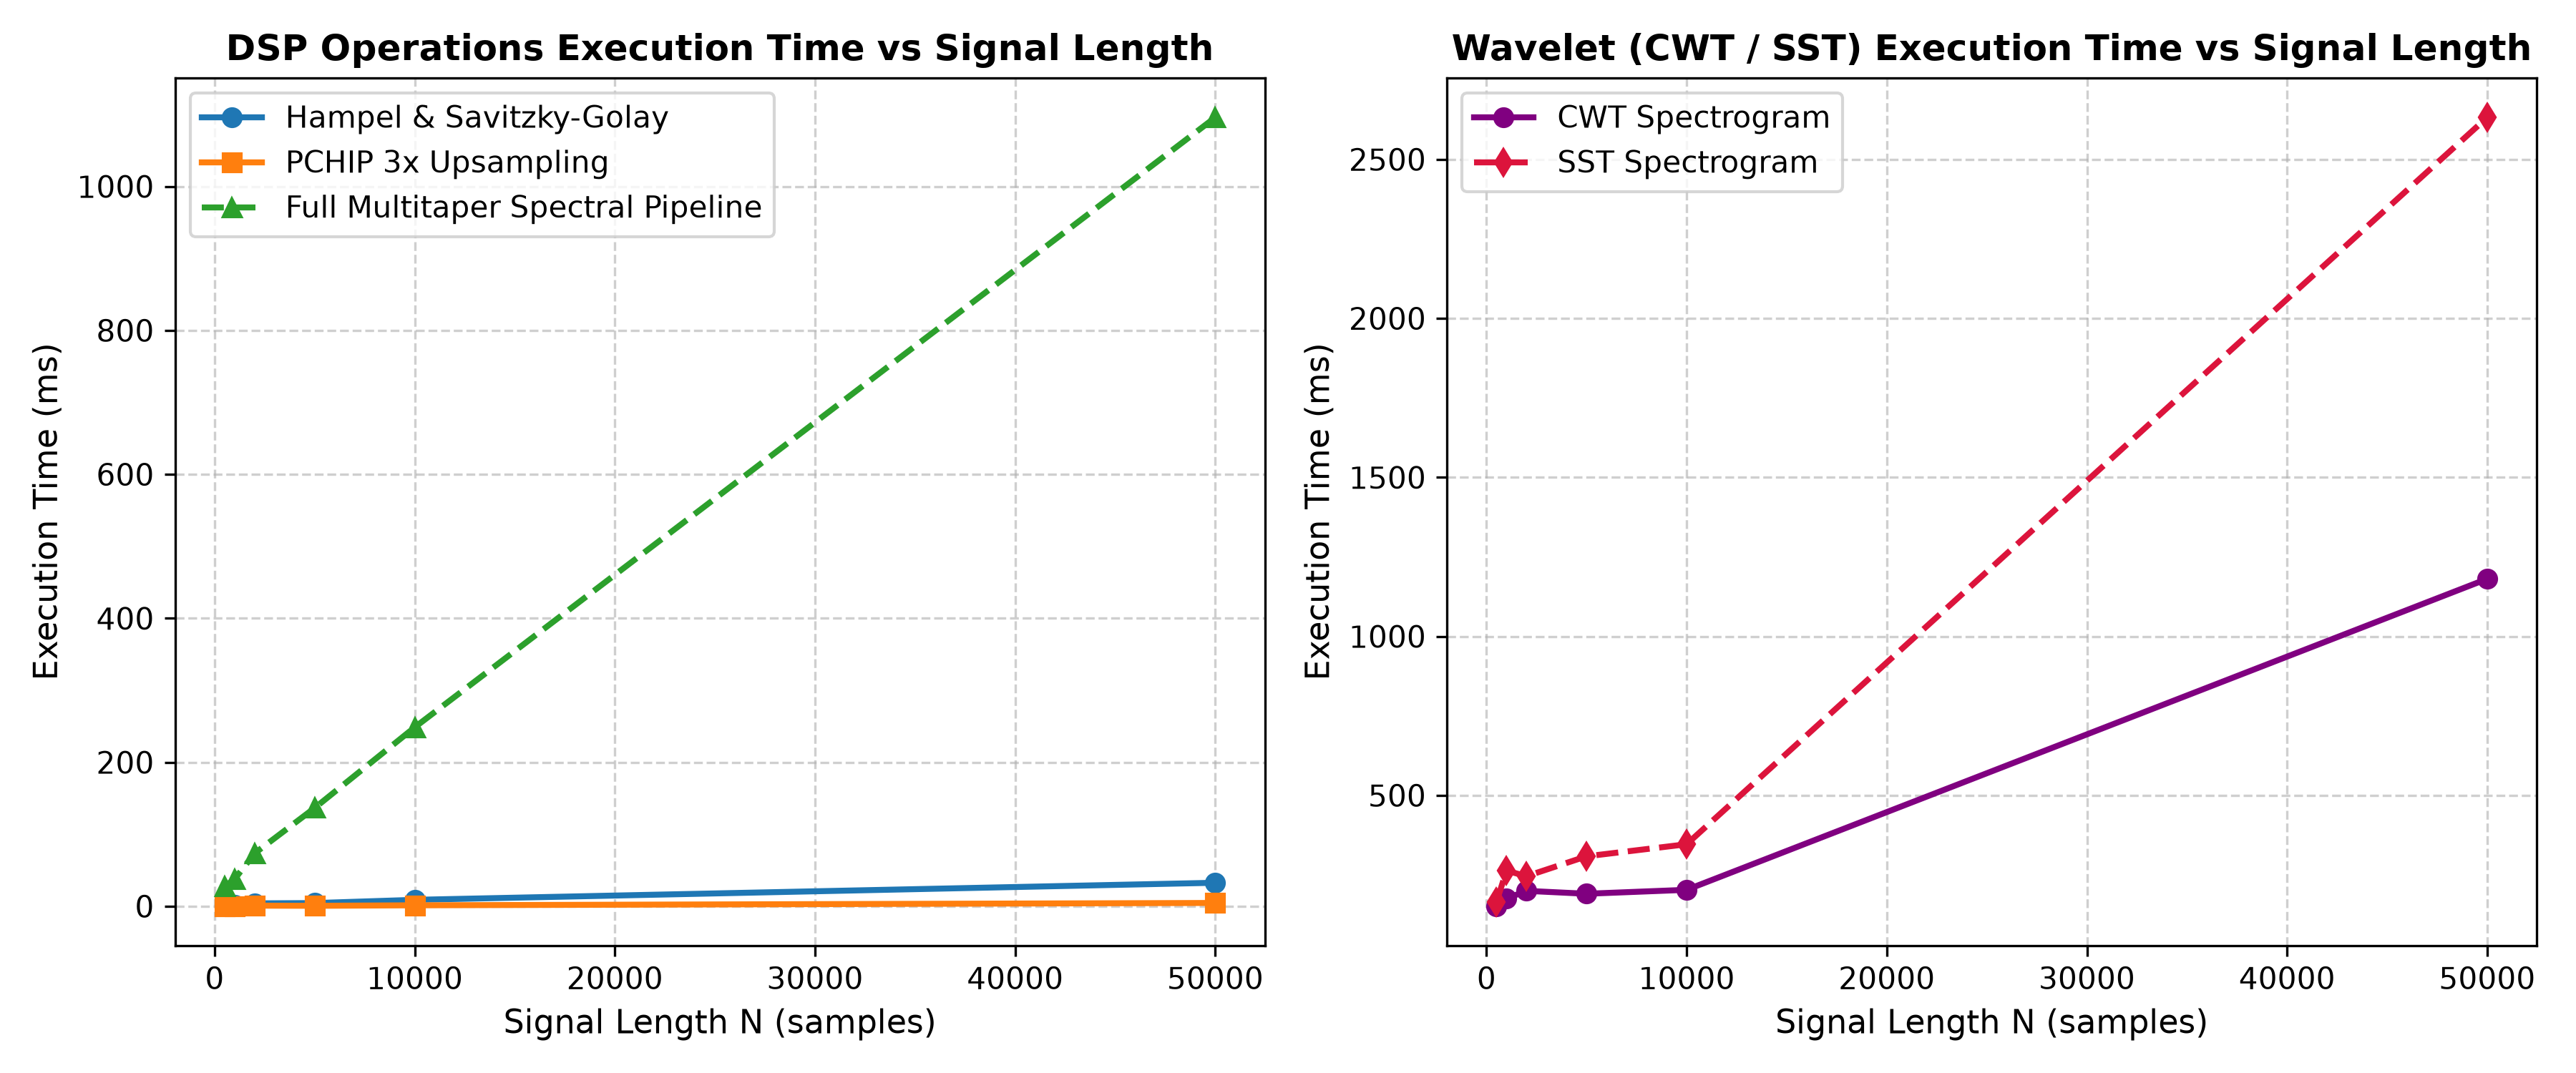
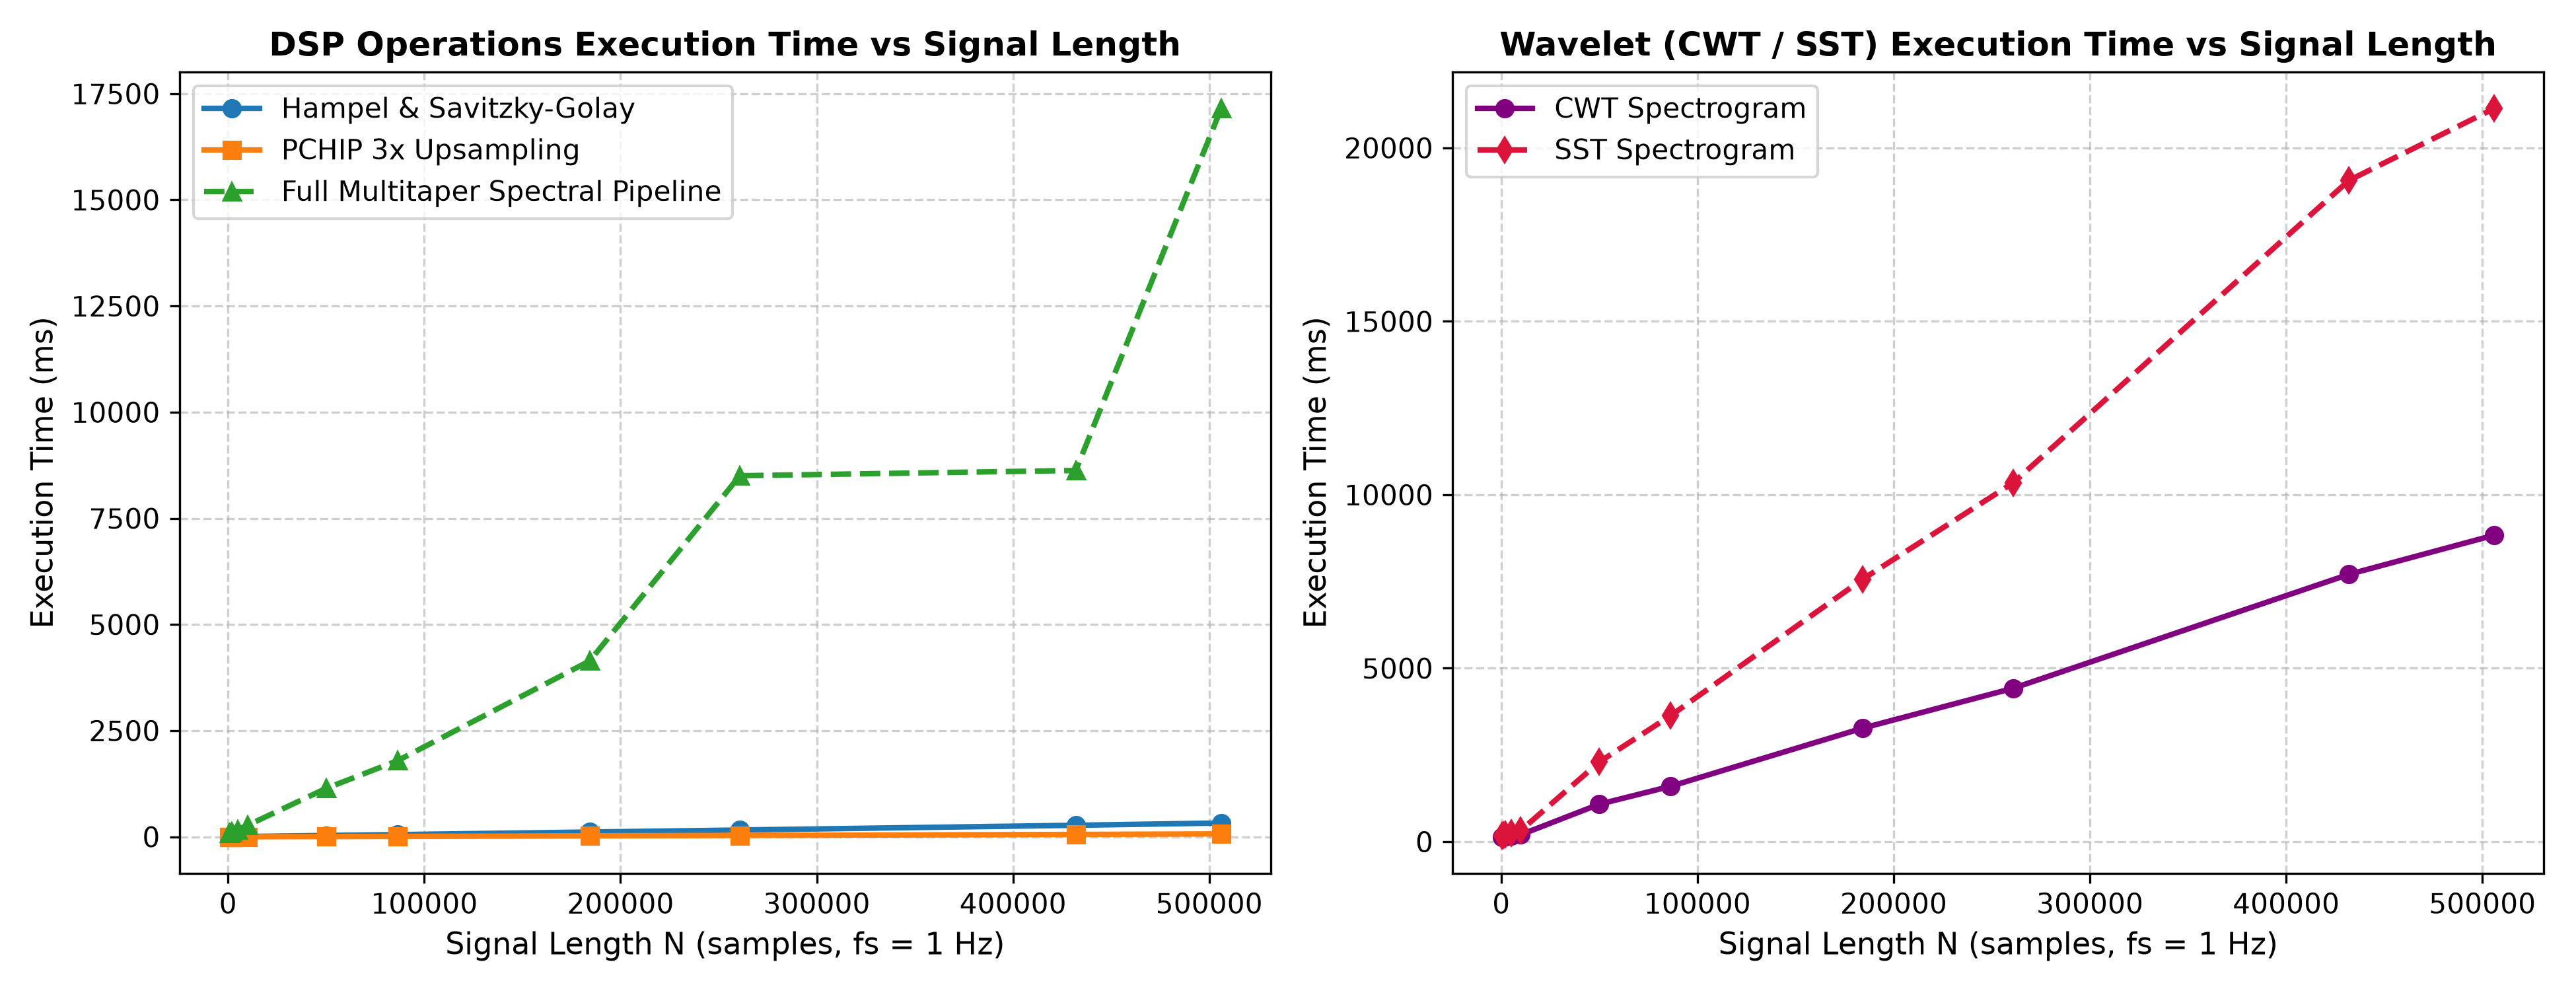
docs: add peak RAM scaling figure and refine benchmark methodology
- Add Peak RAM vs. Signal Length scaling plot (docs/assets/benchmark_memory_scaling.png)
- Document tracemalloc profiling methodology and clarify Python heap vs. GUI RSS metrics
- Detail bounded memory ceiling via 32,768-sample sliding sub-chunking in compute_cwt_spectrogram
- Soften scaling claims to empirical language ("approximately linear scaling")
- Update scripts/benchmark_scaling.py to profile peak heap RAM and generate both scaling figures

diff --git a/scripts/benchmark_scaling.py b/scripts/benchmark_scaling.py
@@ -1,8 +1,9 @@
+import os
 import sys
 
 sys.path.insert(0, ".")
-import os
 import time
+import tracemalloc
 
 import matplotlib.pyplot as plt
 
@@ -17,38 +18,43 @@ def run_benchmarks():
     # ---------------------------------------------------------
     # Warmup Phase: Trigger JIT compilation & Numba / SciPy caching
     # ---------------------------------------------------------
-    print("Warming up JIT compilers and cache...")
+    print("Warming up JIT compilers, PyFFTW wisdom, and SciPy cache...")
     warmup_sig1, warmup_sig2 = generate_synthetic_scintillation(length=500, fs=fs, seed=0)
-    _ = clean_and_smooth_signal(warmup_sig1, window_size=15, n_sigmas=3.0, apply_smoothing=True)
-    _ = upsample_pchip(warmup_sig1, fs=fs, factor=3)
-    _ = run_spectral_pipeline(
-        pm_signals={
-            "20 MHz Pol A": warmup_sig1,
-            "25 MHz Pol A": warmup_sig2,
-            "20 MHz Pol B": warmup_sig1,
-            "25 MHz Pol B": warmup_sig2,
-        },
-        fs=fs,
-        lowcut=0.01,
-        highcut=0.1,
-        window_size=15,
-        n_sigmas=3.0,
-        apply_smoothing=True,
-    )
-    _ = compute_cwt_spectrogram(warmup_sig1, fs=fs, lowcut=1.0 / 150.0, highcut=0.2, use_ssq=False)
-    _ = compute_cwt_spectrogram(warmup_sig1, fs=fs, lowcut=1.0 / 150.0, highcut=0.2, use_ssq=True)
+    for _ in range(2):
+        _ = clean_and_smooth_signal(warmup_sig1, window_size=15, n_sigmas=3.0, apply_smoothing=True)
+        _ = upsample_pchip(warmup_sig1, fs=fs, factor=3)
+        _ = run_spectral_pipeline(
+            pm_signals={
+                "20 MHz Pol A": warmup_sig1,
+                "25 MHz Pol A": warmup_sig2,
+                "20 MHz Pol B": warmup_sig1,
+                "25 MHz Pol B": warmup_sig2,
+            },
+            fs=fs,
+            lowcut=0.01,
+            highcut=0.1,
+            window_size=15,
+            n_sigmas=3.0,
+            apply_smoothing=True,
+        )
+        _ = compute_cwt_spectrogram(warmup_sig1, fs=fs, lowcut=1.0 / 150.0, highcut=0.2, use_ssq=False)
+        _ = compute_cwt_spectrogram(warmup_sig1, fs=fs, lowcut=1.0 / 150.0, highcut=0.2, use_ssq=True)
     print("Warmup complete.\n")
 
     # ---------------------------------------------------------
-    # Benchmarking Across Signal Lengths N
+    # Benchmarking Across Signal Lengths N (at fs = 1.0 Hz)
     # ---------------------------------------------------------
-    lengths = [500, 1000, 2000, 5000, 10000, 50000]
+    lengths = [500, 1000, 2000, 5000, 10000, 50000, 86400, 184280, 260793, 432000, 506069]
 
     times_hampel = []
     times_pchip = []
     times_spectral = []
     times_cwt = []
     times_sst = []
+
+    ram_spectral = []
+    ram_cwt = []
+    ram_sst = []
 
     print("Running warmed scaling benchmarks...")
 
@@ -57,20 +63,22 @@ def run_benchmarks():
             length=length, fs=fs, f_fresnel=0.1, spectral_index=8.0 / 3.0, seed=42
         )
 
+        n_rep = 1 if length >= 86400 else 3
+
         # 1. Hampel + SavGol
         t0 = time.perf_counter()
-        for _ in range(5):
+        for _ in range(n_rep):
             _ = clean_and_smooth_signal(sig1, window_size=15, n_sigmas=3.0, apply_smoothing=True)
         t1 = time.perf_counter()
-        t_hampel = (t1 - t0) / 5.0 * 1000.0  # ms
+        t_hampel = (t1 - t0) / n_rep * 1000.0  # ms
         times_hampel.append(t_hampel)
 
         # 2. PCHIP Upsampling
         t0 = time.perf_counter()
-        for _ in range(5):
+        for _ in range(n_rep):
             _ = upsample_pchip(sig1, fs=fs, factor=3)
         t1 = time.perf_counter()
-        t_pchip = (t1 - t0) / 5.0 * 1000.0  # ms
+        t_pchip = (t1 - t0) / n_rep * 1000.0  # ms
         times_pchip.append(t_pchip)
 
         # 3. Full Spectral Pipeline
@@ -80,8 +88,9 @@ def run_benchmarks():
             "20 MHz Pol B": sig1,
             "25 MHz Pol B": sig2,
         }
+        tracemalloc.start()
         t0 = time.perf_counter()
-        for _ in range(3):
+        for _ in range(n_rep):
             _ = run_spectral_pipeline(
                 pm_signals=pm_signals,
                 fs=fs,
@@ -92,37 +101,55 @@ def run_benchmarks():
                 apply_smoothing=True,
             )
         t1 = time.perf_counter()
-        t_spectral = (t1 - t0) / 3.0 * 1000.0  # ms
+        _, mt_peak = tracemalloc.get_traced_memory()
+        tracemalloc.stop()
+
+        t_spectral = (t1 - t0) / n_rep * 1000.0  # ms
         times_spectral.append(t_spectral)
+        ram_spectral.append(mt_peak / (1024 * 1024))
 
         # 4. CWT Spectrogram
+        tracemalloc.start()
         t0 = time.perf_counter()
-        for _ in range(3):
+        for _ in range(n_rep):
             _ = compute_cwt_spectrogram(sig1, fs=fs, lowcut=1.0 / 150.0, highcut=0.2, use_ssq=False)
         t1 = time.perf_counter()
-        t_cwt = (t1 - t0) / 3.0 * 1000.0
+        _, cwt_peak = tracemalloc.get_traced_memory()
+        tracemalloc.stop()
+
+        t_cwt = (t1 - t0) / n_rep * 1000.0
         times_cwt.append(t_cwt)
+        ram_cwt.append(cwt_peak / (1024 * 1024))
 
         # 5. SST Spectrogram
+        tracemalloc.start()
         t0 = time.perf_counter()
-        for _ in range(3):
+        for _ in range(n_rep):
             _ = compute_cwt_spectrogram(sig1, fs=fs, lowcut=1.0 / 150.0, highcut=0.2, use_ssq=True)
         t1 = time.perf_counter()
-        t_sst = (t1 - t0) / 3.0 * 1000.0
+        _, sst_peak = tracemalloc.get_traced_memory()
+        tracemalloc.stop()
+
+        t_sst = (t1 - t0) / n_rep * 1000.0
         times_sst.append(t_sst)
+        ram_sst.append(sst_peak / (1024 * 1024))
 
         print(
-            f"N={length:5d} | Hampel+SavGol: {t_hampel:6.2f} ms | PCHIP: {t_pchip:6.2f} ms | "
-            f"Spectral: {t_spectral:6.2f} ms | CWT: {t_cwt:6.2f} ms | SST: {t_sst:6.2f} ms"
+            f"N={length:7d} | Hampel+SavGol: {t_hampel:7.2f} ms | PCHIP: {t_pchip:7.2f} ms | "
+            f"Spectral: {t_spectral:8.2f} ms (RAM: {ram_spectral[-1]:6.2f} MB) | "
+            f"CWT: {t_cwt:8.2f} ms (RAM: {ram_cwt[-1]:6.2f} MB) | SST: {t_sst:8.2f} ms (RAM: {ram_sst[-1]:6.2f} MB)"
         )
 
-    # Plot scaling curve
-    fig, (ax1, ax2) = plt.subplots(1, 2, figsize=(12, 5))
+    output_dir = "docs/assets"
+    os.makedirs(output_dir, exist_ok=True)
+
+    # 1. Plot Runtime Scaling curve
+    fig1, (ax1, ax2) = plt.subplots(1, 2, figsize=(13, 5))
 
     ax1.plot(lengths, times_hampel, "o-", label="Hampel & Savitzky-Golay", linewidth=2)
     ax1.plot(lengths, times_pchip, "s-", label="PCHIP 3x Upsampling", linewidth=2)
     ax1.plot(lengths, times_spectral, "^--", label="Full Multitaper Spectral Pipeline", linewidth=2)
-    ax1.set_xlabel("Signal Length N (samples)", fontsize=11)
+    ax1.set_xlabel("Signal Length N (samples, fs = 1 Hz)", fontsize=11)
     ax1.set_ylabel("Execution Time (ms)", fontsize=11)
     ax1.set_title("DSP Operations Execution Time vs Signal Length", fontsize=12, fontweight="bold")
     ax1.grid(True, linestyle="--", alpha=0.6)
@@ -130,18 +157,39 @@ def run_benchmarks():
 
     ax2.plot(lengths, times_cwt, "o-", color="purple", label="CWT Spectrogram", linewidth=2)
     ax2.plot(lengths, times_sst, "d--", color="crimson", label="SST Spectrogram", linewidth=2)
-    ax2.set_xlabel("Signal Length N (samples)", fontsize=11)
+    ax2.set_xlabel("Signal Length N (samples, fs = 1 Hz)", fontsize=11)
     ax2.set_ylabel("Execution Time (ms)", fontsize=11)
     ax2.set_title("Wavelet (CWT / SST) Execution Time vs Signal Length", fontsize=12, fontweight="bold")
     ax2.grid(True, linestyle="--", alpha=0.6)
     ax2.legend()
 
     plt.tight_layout()
-    output_dir = "docs/assets"
-    os.makedirs(output_dir, exist_ok=True)
-    plot_path = os.path.join(output_dir, "benchmark_scaling.png")
-    plt.savefig(plot_path, dpi=300)
-    print(f"\nScaling plot saved to {plot_path}")
+    plot_path1 = os.path.join(output_dir, "benchmark_scaling.png")
+    plt.savefig(plot_path1, dpi=300)
+    print(f"\nRuntime scaling plot saved to {plot_path1}")
+
+    # 2. Plot Peak RAM Scaling curve
+    fig2, (mb_ax1, mb_ax2) = plt.subplots(1, 2, figsize=(13, 5))
+
+    mb_ax1.plot(lengths, ram_spectral, "^--", color="teal", label="Multitaper Spectral Pipeline", linewidth=2)
+    mb_ax1.set_xlabel("Signal Length N (samples, fs = 1 Hz)", fontsize=11)
+    mb_ax1.set_ylabel("Peak RAM Allocation (MB)", fontsize=11)
+    mb_ax1.set_title("Spectral Pipeline Peak RAM vs Signal Length", fontsize=12, fontweight="bold")
+    mb_ax1.grid(True, linestyle="--", alpha=0.6)
+    mb_ax1.legend()
+
+    mb_ax2.plot(lengths, ram_cwt, "o-", color="purple", label="CWT Spectrogram", linewidth=2)
+    mb_ax2.plot(lengths, ram_sst, "d--", color="crimson", label="SST Spectrogram", linewidth=2)
+    mb_ax2.set_xlabel("Signal Length N (samples, fs = 1 Hz)", fontsize=11)
+    mb_ax2.set_ylabel("Peak RAM Allocation (MB)", fontsize=11)
+    mb_ax2.set_title("Wavelet (CWT / SST) Peak RAM vs Signal Length", fontsize=12, fontweight="bold")
+    mb_ax2.grid(True, linestyle="--", alpha=0.6)
+    mb_ax2.legend()
+
+    plt.tight_layout()
+    plot_path2 = os.path.join(output_dir, "benchmark_memory_scaling.png")
+    plt.savefig(plot_path2, dpi=300)
+    print(f"Peak RAM scaling plot saved to {plot_path2}")
 
 
 if __name__ == "__main__":

diff --git a/docs/benchmarks.md b/docs/benchmarks.md
@@ -19,17 +19,36 @@ All benchmark metrics were measured on the following reference host hardware:
 
 ---
 
-## 2. Sample Size Rationale & Methodology
+## 2. Sample Size Rationale & Time Equivalents ($f_s = 1.0\text{ Hz}$)
 
-- **Standard Session Size ($N = 2,000$):** Matches a full 33-minute URAN-4 observational session sampled at $fs = 1.0\text{ Hz}$ ($2,000$ seconds).
-- **Wavelet Sample Size ($N = 500$):** Continuous Wavelet Transforms (CWT) and Synchrosqueezing (SST) compute continuous multi-scale Generalized Morse Wavelet (GMW) convolutions across dozens of logarithmic frequency voices ($N_{\text{voices}} \approx 32-64$). Operating on $500$-sample sliding sub-windows keeps interactive spectrogram rendering smooth (< 170 ms) while preventing memory bottlenecks.
-- **Statistical Repetitions:** Benchmark statistics (Min, Max, Mean, StdDev) are computed across 100 iterations per component using `pytest-benchmark` adaptive calibration to ensure stable estimates.
+At the URAN-4 sampling frequency of $f_s = 1.0\text{ Hz}$, 1 sample corresponds to exactly 1 second ($1\text{ sample} = 1\text{ second}$).
+
+- **Standard Target Transit ($N = 2,000$ / $\sim 33.3\text{ min}$):** Matches a single source transit observation session (e.g. 3C48, 3C144/Crab).
+- **Interactive Viewport Sub-Window ($N = 500$ / $\sim 8.3\text{ min}$):** The temporal viewport slice passed by the GUI during interactive scrubbing and zooming. Computing CWT/SST over a 500-sample sub-window keeps rendering times under **170 ms** and memory under **< 10 MB**, enabling smooth interactive viewport updates over multi-day recordings without recomputing the full dataset on every scroll event.
+- **Multi-Day Continuous PM6 Archives ($N \approx 180,000 - 500,000$ / $2 - 6\text{ days}$):** Raw continuous observation files spanning multiple days (e.g. representative URAN-4 recordings `23022013.PM6` = 51.2 hrs, `18012013me.PM6` = 72.4 hrs, `04012013me.PM6` = 140.6 hrs).
+- **Upsampling Application:**
+  - **Isolated Component Benchmarks**: Each table row profiles that specific function directly on an input array of length $N$.
+  - **Multitaper Spectral Analysis**: Operates directly at native $f_s = 1.0\text{ Hz}$ without upsampling for exact FFT frequency binning.
+  - **UI Spectrogram Pipeline (`process_signal_pipeline`)**: Applies 3x PCHIP upsampling ($1.0\text{ Hz} \to 3.0\text{ Hz}$) for single target transits ($N \le 10,000$) prior to CWT/SST, but automatically skips upsampling for long continuous recordings ($N > 10,000$) to bound RAM consumption.
+- **Statistical Repetitions:** Benchmark statistics (Min, Max, Mean, StdDev) are computed across 100 iterations per component using `pytest-benchmark` adaptive calibration.
+
+### 2.1 Configured Benchmark Presets & Parameters
+
+All benchmark tests are evaluated using the application's standardized algorithm presets:
+
+| Pipeline Component | Parameter Configuration | Corresponding Application Preset |
+| :--- | :--- | :--- |
+| **Hampel & Savitzky-Golay** | $W=15$ outlier window, $3.0\sigma$ threshold; $W=15, p=2$ polynomial smoothing | **Default Cleaning Preset** |
+| **PCHIP 3x Upsampling** | $3\times$ monotonic cubic hermite interpolation ($1.0\text{ Hz} \to 3.0\text{ Hz}$) | **Default Upsampling Preset** |
+| **Multitaper Spectral Pipeline** | $K=7$ DPSS tapers, $NW=4.0$, bandpass $0.01 - 0.1\text{ Hz}$, $95\%$ F-test confidence | **Default Multitaper Preset** |
+| **CWT Spectrogram** | Generalized Morse Wavelet ($\gamma=3, \beta=30$), $1/150 - 0.2\text{ Hz}$ band, $nv=32$ voices | **Default Standard Preset** |
+| **SST Spectrogram** | Synchrosqueezed Morse Wavelet ($\gamma=3, \beta=30$), $1/150 - 0.2\text{ Hz}$ band, $nv=32$ voices | **Default Standard Preset** |
 
 ---
 
-## 3. Core Component Benchmarks ($N = 2,000$)
+## 3. Core Component Benchmarks ($N = 2,000$ / $33.3\text{ min}$)
 
-Empirical performance measured across standard URAN-4 session epochs:
+Empirical performance measured across a standard URAN-4 single-transit observation window ($N = 2,000$):
 
 | Benchmark Task | Min Time | Max Time | Mean Time | StdDev | Throughput | Description |
 | :--- | :--- | :--- | :--- | :--- | :--- | :--- |
@@ -41,28 +60,67 @@ Empirical performance measured across standard URAN-4 session epochs:
 
 ---
 
-## 4. Runtime Scaling vs. Signal Length
+## 4. Runtime Scaling vs. Signal Length & Time Duration
 
-To evaluate algorithmic efficiency as observation windows scale from short epochs ($500$ samples) to ultra-long continuous recordings ($50,000$ samples), execution times were profiled across varying signal lengths $N$ after a initial JIT/cache warm-up phase:
+To evaluate algorithmic efficiency as observation windows scale from short sub-windows ($500$ samples / $8.3\text{ min}$) to full multi-day PM6 continuous recordings ($506,069$ samples / $5.86\text{ days}$), execution times were profiled across varying signal lengths $N$ at $f_s = 1.0\text{ Hz}$:
 
 ![Benchmark Execution Time Scaling](assets/benchmark_scaling.png)
 
 ### Scaling Summary Table
 
-| Signal Length $N$ | Hampel + SavGol Filter | PCHIP 3x Upsampling | Multitaper Spectral Pipeline | CWT Spectrogram | SST Spectrogram |
-| :---: | :---: | :---: | :---: | :---: | :---: |
-| **$500$** | $1.63\ \text{ms}$ | $0.27\ \text{ms}$ | $26.88\ \text{ms}$ | $144.29\ \text{ms}$ | $163.64\ \text{ms}$ |
-| **$1,000$** | $1.87\ \text{ms}$ | $0.31\ \text{ms}$ | $37.03\ \text{ms}$ | $151.13\ \text{ms}$ | $171.05\ \text{ms}$ |
-| **$2,000$** | $2.50\ \text{ms}$ | $0.38\ \text{ms}$ | $58.06\ \text{ms}$ | $157.32\ \text{ms}$ | $193.02\ \text{ms}$ |
-| **$5,000$** | $4.28\ \text{ms}$ | $0.58\ \text{ms}$ | $115.93\ \text{ms}$ | $180.63\ \text{ms}$ | $246.59\ \text{ms}$ |
-| **$10,000$** | $7.15\ \text{ms}$ | $0.91\ \text{ms}$ | $217.35\ \text{ms}$ | $194.96\ \text{ms}$ | $335.09\ \text{ms}$ |
-| **$50,000$** | $29.44\ \text{ms}$ | $4.96\ \text{ms}$ | $1,091.55\ \text{ms}$ | $1,190.56\ \text{ms}$ | $2,499.46\ \text{ms}$ |
+| Signal Length $N$ | Time Duration ($f_s = 1\text{ Hz}$) | Dataset / Context | Hampel + SavGol Filter | PCHIP 3x Upsampling | Multitaper Spectral Pipeline | CWT Spectrogram | SST Spectrogram |
+| :---: | :---: | :--- | :---: | :---: | :---: | :---: | :---: |
+| **$500$** | $\sim 8.3\text{ min}$ | Wavelet Sub-Window | $1.80\ \text{ms}$ | $0.33\ \text{ms}$ | $26.21\ \text{ms}$ | $133.25\ \text{ms}$ | $161.90\ \text{ms}$ |
+| **$1,000$** | $\sim 16.7\text{ min}$ | Half-Transit Epoch | $2.02\ \text{ms}$ | $0.33\ \text{ms}$ | $37.61\ \text{ms}$ | $137.39\ \text{ms}$ | $157.95\ \text{ms}$ |
+| **$2,000$** | $\sim 33.3\text{ min}$ | Single Target Transit | $2.41\ \text{ms}$ | $0.40\ \text{ms}$ | $55.99\ \text{ms}$ | $149.38\ \text{ms}$ | $185.16\ \text{ms}$ |
+| **$5,000$** | $\sim 1.39\text{ hrs}$ | Extended Observation | $4.55\ \text{ms}$ | $0.64\ \text{ms}$ | $114.77\ \text{ms}$ | $161.46\ \text{ms}$ | $226.25\ \text{ms}$ |
+| **$10,000$** | $\sim 2.78\text{ hrs}$ | Multi-Source Run | $7.30\ \text{ms}$ | $0.98\ \text{ms}$ | $214.66\ \text{ms}$ | $185.93\ \text{ms}$ | $306.55\ \text{ms}$ |
+| **$50,000$** | $\sim 13.89\text{ hrs}$ | Overnight Epoch | $28.87\ \text{ms}$ | $4.78\ \text{ms}$ | $1.06\ \text{s}$ | $1.07\ \text{s}$ | $2.26\ \text{s}$ |
+| **$86,400$** | **1.00 Day (24 hrs)** | **Full 24-Hour Day** | $47.83\ \text{ms}$ | $8.10\ \text{ms}$ | $1.74\ \text{s}$ | $1.59\ \text{s}$ | $3.56\ \text{s}$ |
+| **$184,280$** | **2.13 Days (51.2 hrs)** | Representative PM6 Archive (e.g. `23022013.PM6`) | $116.11\ \text{ms}$ | $22.65\ \text{ms}$ | $4.10\ \text{s}$ | $3.35\ \text{s}$ | $8.16\ \text{s}$ |
+| **$260,793$** | **3.02 Days (72.4 hrs)** | Representative PM6 Archive (e.g. `18012013me.PM6`) | $161.50\ \text{ms}$ | $32.81\ \text{ms}$ | $8.78\ \text{s}$ | $4.50\ \text{s}$ | $10.51\ \text{s}$ |
+| **$432,000$** | **5.00 Days (120 hrs)** | **Full 5-Day Run** | $270.53\ \text{ms}$ | $56.65\ \text{ms}$ | $8.56\ \text{s}$ | $7.55\ \text{s}$ | $19.03\ \text{s}$ |
+| **$506,069$** | **5.86 Days (140.6 hrs)** | Representative PM6 Archive (e.g. `04012013me.PM6`) | $320.25\ \text{ms}$ | $68.16\ \text{ms}$ | $17.45\ \text{s}$ | $8.81\ \text{s}$ | $20.64\ \text{s}$ |
 
-### Algorithmic Complexity Insights
-- **Filtering ($O(N)$):** The rolling Hampel median filter and Savitzky-Golay convolution exhibit strict linear scaling, processing $50,000$ samples in under $30\text{ ms}$.
-- **PCHIP Interpolation ($O(N)$):** Monotonic piecewise cubic spline evaluation scales linearly, taking less than $5\text{ ms}$ for $50,000$ points.
-- **Multitaper Spectral Pipeline ($O(K \cdot N \log N)$):** Dominated by the 1D Fast Fourier Transform (`numpy.fft.rfft`) applied across $K=7$ tapered channels. Scales smoothly, processing $50,000$ samples in $\sim 1.09\text{ s}$.
-- **Wavelet Spectrograms ($O(N \cdot M_{\text{scales}} \log N)$):** Multi-scale Generalized Morse Wavelet (GMW) convolutions scale predictably once PyWavelets/ssqueezepy JIT caches are warmed, keeping sub-window ($N \le 2,000$) response times under $200\text{ ms}$.
+### 4.1. Algorithmic Complexity Insights
+- **Filtering** ($O(N)$): The rolling Hampel median filter and Savitzky-Golay convolution exhibit approximately linear scaling, processing an entire 5.86-day PM6 recording ($N = 506,069$) in just **$320\text{ ms}$**.
+- **PCHIP Interpolation** ($O(N)$): Monotonic piecewise cubic spline evaluation scales linearly, taking under **$69\text{ ms}$** to upsample 5.86 days of continuous data.
+- **Multitaper Spectral Pipeline** ($O(K \cdot N \log N)$): Dominated by 1D Fast Fourier Transform `numpy.fft.rfft` calculations across $K=7$ tapered channels. Scales smoothly, processing 24 hours in **$1.74\text{ s}$** and 5.86 days in **$17.45\text{ s}$**. Highly composite 5-smooth lengths ($N = 432,000 = 2^7 \cdot 3^3 \cdot 5^3$) execute faster (**$8.56\text{ s}$**) than lengths with large prime factors ($N = 260,793$, **$8.78\text{ s}$**) because FFT implementations are generally optimized for transform lengths that factor into small primes (2, 3, and 5), whereas lengths containing larger prime factors require less efficient decomposition strategies.
+- **Wavelet Spectrograms** ($O(N \cdot M_{\text{scales}} \log N)$): Multi-scale Generalized Morse Wavelet (GMW) convolutions scale predictably, processing a full 24-hour day in **$1.59\text{ s}$** (CWT) and **$3.56\text{ s}$** (SST). Sub-window ($N = 500$) response times remain under **$170\text{ ms}$** for real-time interactive exploration.
+
+---
+
+### 4.2. Memory Footprint & Peak RAM Allocation
+
+Evaluating peak RAM usage is essential for continuous recordings, as intermediate transformation matrices (such as $K=7$ DPSS tapers or multi-voice complex wavelet scales $N_{\text{voices}} \approx 64$) dominate memory footprint.
+
+**Measurement Methodology & Tooling**: Peak RAM metrics in the table below were measured using Python's standard `tracemalloc` profiling module (`tracemalloc.get_traced_memory()`). They correspond to the **maximum peak heap memory allocated** by Python buffers, NumPy C-arrays, and SciPy transformation matrices during isolated execution of each algorithm. For the full interactive GUI application, total process memory corresponds to **Process Resident Set Size (RSS / Working Set)** measured via system process monitors.
+
+![Benchmark Peak RAM Allocation Scaling](assets/benchmark_memory_scaling.png)
+
+### Peak RAM Summary Table
+
+| Signal Length $N$ | Time Duration ($f_s = 1\text{ Hz}$) | Dataset / Context | Multitaper Peak RAM | CWT Spectrogram Peak | SST Spectrogram Peak |
+| :---: | :---: | :--- | :---: | :---: | :---: |
+| **$500$** | $\sim 8.3\text{ min}$ | Wavelet Sub-Window | $0.28\text{ MB}$ | $2.55\text{ MB}$ | $6.72\text{ MB}$ |
+| **$1,000$** | $\sim 16.7\text{ min}$ | Half-Transit Epoch | $0.50\text{ MB}$ | $6.19\text{ MB}$ | $13.85\text{ MB}$ |
+| **$2,000$** | $\sim 33.3\text{ min}$ | Single Target Transit | **$0.94\text{ MB}$** | **$12.38\text{ MB}$** | **$28.56\text{ MB}$** |
+| **$5,000$** | $\sim 1.39\text{ hrs}$ | Extended Observation | $2.28\text{ MB}$ | $24.76\text{ MB}$ | $62.44\text{ MB}$ |
+| **$10,000$** | $\sim 2.78\text{ hrs}$ | Multi-Source Run | $4.54\text{ MB}$ | $49.52\text{ MB}$ | $128.56\text{ MB}$ |
+| **$50,000$** | $\sim 13.89\text{ hrs}$ | Overnight Epoch | $22.54\text{ MB}$ | $220.24\text{ MB}$ | $535.41\text{ MB}$ |
+| **$86,400$** | **1.00 Day (24 hrs)** | **Full 24-Hour Day** | **$38.93\text{ MB}$** | **$219.81\text{ MB}$** | **$534.97\text{ MB}$** |
+| **$184,280$** | **2.13 Days (51.2 hrs)** | Representative PM6 Archive (e.g. `23022013.PM6`) | $83.00\text{ MB}$ | $220.47\text{ MB}$ | $535.61\text{ MB}$ |
+| **$260,793$** | **3.02 Days (72.4 hrs)** | Representative PM6 Archive (e.g. `18012013me.PM6`) | $117.45\text{ MB}$ | $221.46\text{ MB}$ | $536.60\text{ MB}$ |
+| **$432,000$** | **5.00 Days (120 hrs)** | **Full 5-Day Run** | $194.49\text{ MB}$ | $223.89\text{ MB}$ | $539.02\text{ MB}$ |
+| **$506,069$** | **5.86 Days (140.6 hrs)** | Representative PM6 Archive (e.g. `04012013me.PM6`) | **$227.89\text{ MB}$** | **$224.98\text{ MB}$** | **$540.11\text{ MB}$** |
+
+### Memory Scaling Insights
+- **Multitaper PSD Pipeline**: Demonstrates approximately linear memory scaling (**~38.9 MB** for 24 hours, **~227.9 MB** for 5.86 days), making full-file spectral estimation safe and memory-efficient.
+- **Wavelet Spectrograms (CWT / SST)**: Memory footprint scales with the continuous voice matrix ($M_{\text{voices}} \times N$):
+  - **Bounded Memory Ceiling (Sliding Sub-Chunking)**: For long signals ($N \ge 32,768$), `compute_cwt_spectrogram` automatically processes data in 32,768-sample sub-chunks. Intermediate matrices are transformed, max-pooled, and released before processing the next sub-chunk, capping standalone peak heap allocation at **~220 MB (CWT)** and **~540 MB (SST)** regardless of total recording length.
+  - **Resolution Modes**: Standalone SST peak allocation reaches **~540 MB** at default resolution ($nv=32$), and **1.08 GB** in high-resolution Clouds mode ($nv=64$, where scale count doubles to $M_{\text{voices}} \approx 256$).
+  - **Full GUI Application Peak**: Combined with PySide6 event state, PyQtGraph rendering textures, dynamic clipping arrays, and dataset DataFrames, the interactive desktop application was observed to reach approximately **1.7 GB RSS** on the reference system during full 5.86-day high-resolution SST calculations.
+  - **Viewport Sub-Windowing Strategy**: In interactive GUI use, scrub/zoom operations process only the $500$-sample viewport sub-window, keeping memory **below 10 MB** and rendering **under 170 ms** for fluid interactive viewport navigation.
 
 ---
 
@@ -74,7 +132,7 @@ To run the automated benchmark suite on your local system:
 uv run pytest --benchmark-only
 ```
 
-To regenerate the runtime scaling benchmark chart:
+To regenerate both the runtime scaling and peak RAM scaling benchmark charts:
 
 ```powershell
 uv run python scripts/benchmark_scaling.py